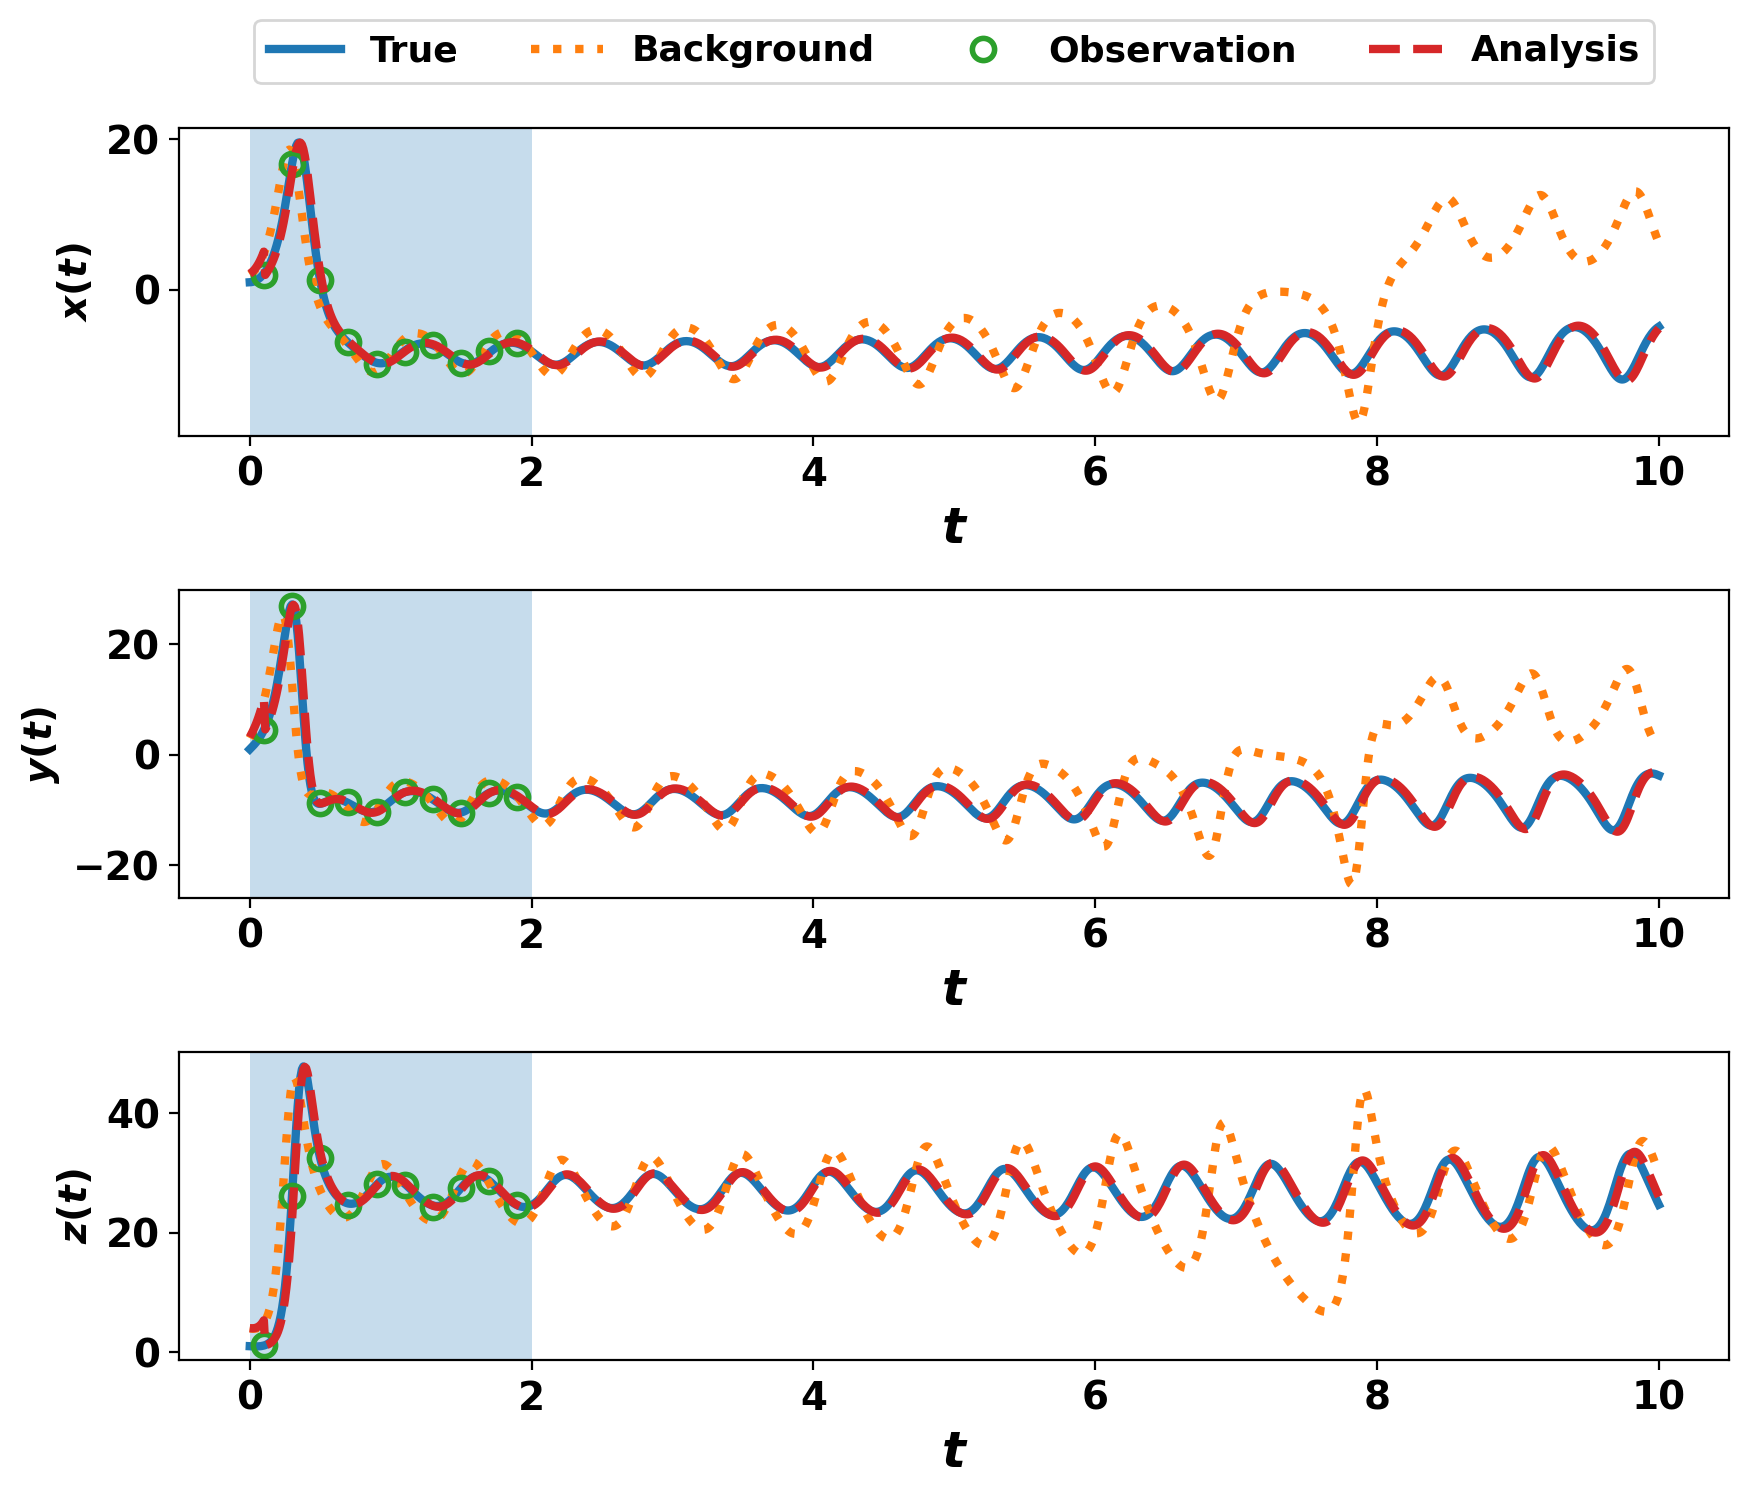
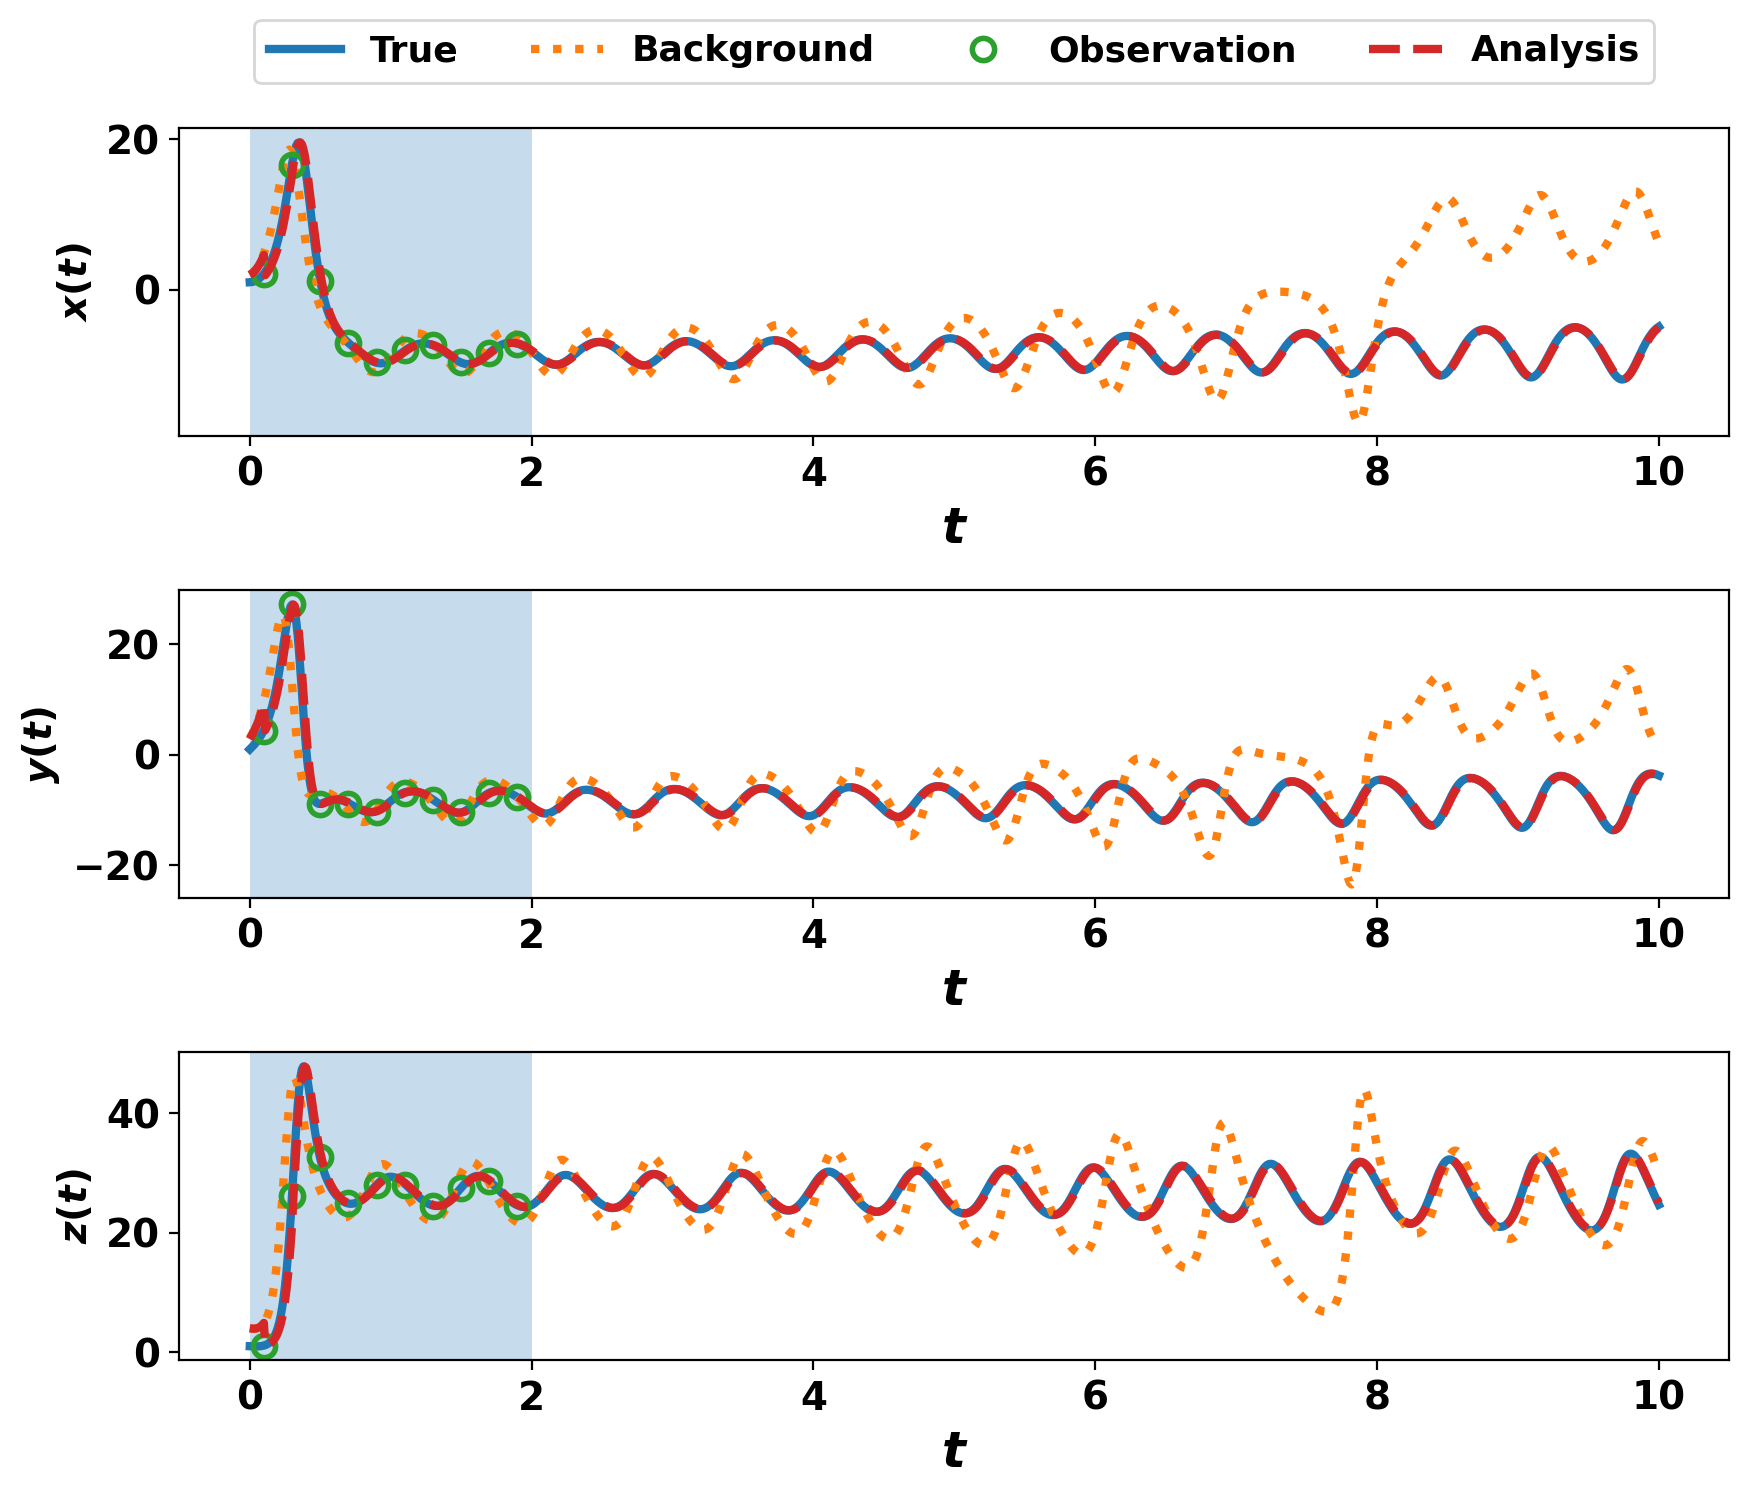
Update Lorenz96 CI figure

diff --git a/README.md b/README.md
@@ -77,7 +77,7 @@ Explore the Wiki to find:
 - Support for uncertainty quantification and ensemble forecasting
 - Reproducible scientific computing infrastructure
 
---- 
+---
 
 ## ICESEE CI Lorenz96 smoke test
 
@@ -87,6 +87,7 @@ The figure shown below is generated directly from the automated test workflow of
 
 **Figure:** Automatically generated by the ICESEE CI workflow after executing the Lorenz-96 assimilation benchmark. The figure compares the true trajectory, background forecast, synthetic observations, and ensemble analysis produced by ICESEE.
 
+---
 
 ## AI/ML Integration
 
